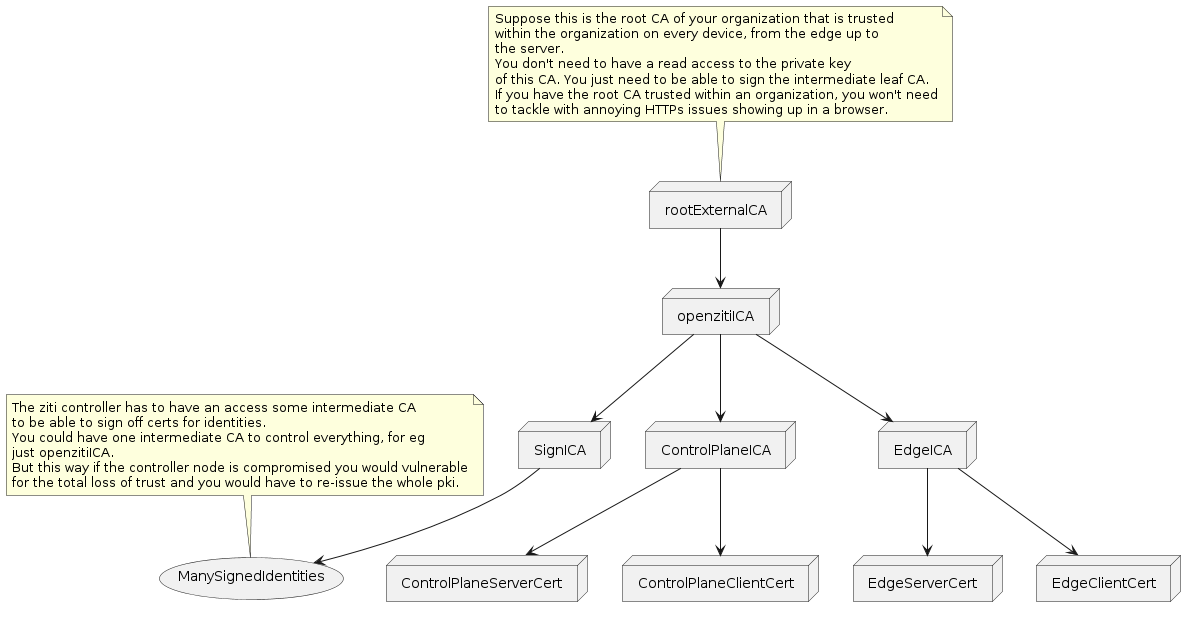
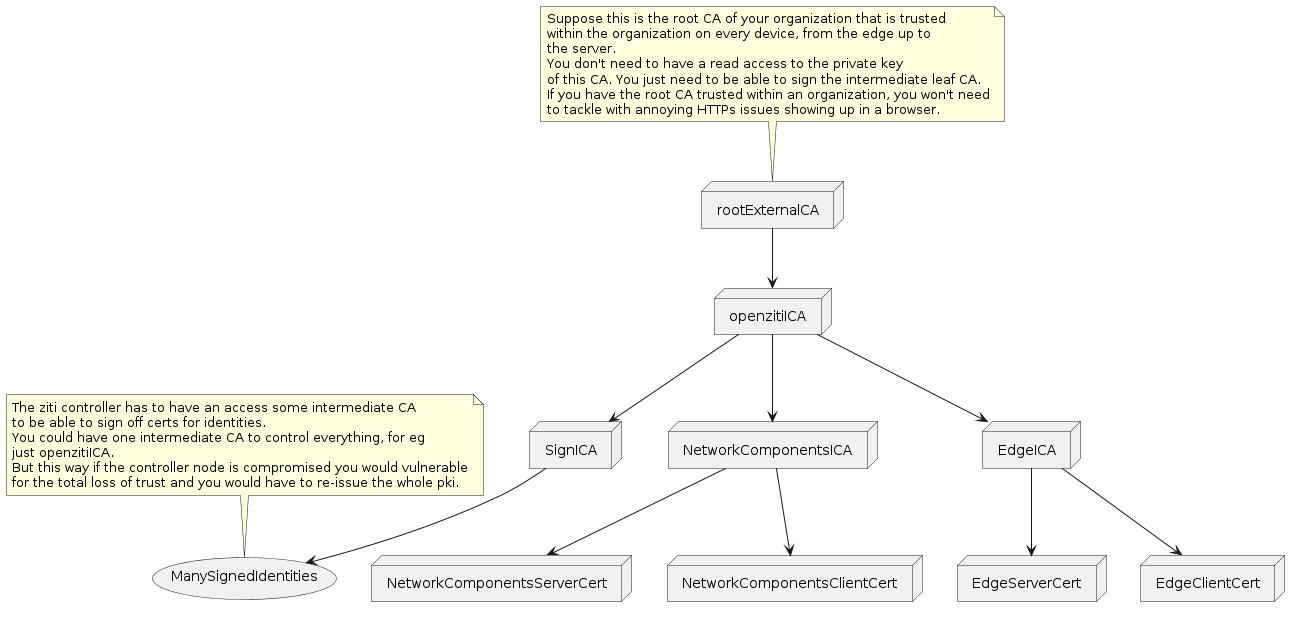
Create LICENSE

diff --git a/BOOTSTRAP_PKI.md b/BOOTSTRAP_PKI.md
@@ -1,224 +1,223 @@
-1. Copy the root ca of the bayfut
-`cp ~/code/repos/bayfut_pki/pems/bayfut_root_ca.pem`
-or from the trust root, or from the github
-
-2.  
+1. Create a self-signed root CA
 ```
-cat > engine.conf <<EOF
-openssl_conf = openssl_init
- 
-[openssl_init]
-engines = engine_section
- 
-[engine_section]
-pkcs11 = pkcs11_section
- 
-[pkcs11_section]
-engine_id = pkcs11
-dynamic_path = /opt/homebrew/lib/engines-3/pkcs11.dylib
-MODULE_PATH = /opt/homebrew/lib/libykcs11.dylib
-default_algorithms = ALL
-
-EOF
+openssl req \
+    -new -x509 \
+    -days 3650 \
+    -keyout ./pki/root_ca.key \
+    -subj "/C=US/ST=ST=Los Angeles/O=MyBestOrg/CN=MyBestOrg" \
+    -out ./pki/root_ca.cert \
+    -config ./pki/extensions.conf \
+    -extensions v3_ca \
+    -nodes
 ```
-3. alias yubissl='OPENSSL_CONF=engine.conf openssl' (possibly into the .zshrc)
-
-4. Create an alias for yubissl
-`alias yubissl='OPENSSL_CONF=engine.conf openssl'`
-
-5. Create an intermediate CA for Openziti
+2. Create an intermediate CA for Openziti
 ```
-openssl genrsa -aes256 \
-    -out ./pems/openziti_ica.key.pem 2048
+openssl genrsa -out ./pki/cas/openziti_ica.key 2048
 
 openssl req -new -sha256 \
-    -key ./pems/openziti_ica.key.pem \
-    -subj "/C=RU/ST=Saint-Petersburg/O=Bayfut/CN=Bayfut/OU=Openziti ICA" \
-    -out ./pems/openziti_ica.pem.csr
+    -key ./pki/cas/openziti_ica.key \
+    -subj "/C=US/ST=Los Angeles/O=MyBestOrg/CN=MyBestOrg/OU=Openziti ICA" \
+    -out ./pki/cas/openziti_ica.csr
 
-yubissl x509 \
-    -req -in ./pems/openziti_ica.pem.csr \
-    -CA ./pems/bayfut_root_ca.pem \
-    -CAkeyform engine \
-    -engine pkcs11 \
-    -CAkey slot_0-id_1 \
+openssl x509 \
+    -req -in ./pki/cas/openziti_ica.csr \
+    -CA ./pki/root_ca.cert \
+    -CAkey ./pki/root_ca.key \
     -days 600 \
     -extensions v3_intermediate_ca \
-    -extfile extensions.conf \
-    -out "./pems/openziti_ica.pem"
+    -extfile ./pki/extensions.conf \
+    -out "./pki/cas/openziti_ica.cert"
 ```
 
-6. Create a control-plane intermediate CA
+3. Create a network components intermediate CA
 ```
-openssl genrsa -aes256 \
-    -out ./pems/openziti_controlplane_ica.key.pem 2048
+openssl genrsa \
+    -out ./pki/cas/openziti_network_components_ica.key 2048
 
 openssl req -new -sha256 \
-    -key ./pems/openziti_controlplane_ica.key.pem \
-    -subj "/C=RU/ST=Saint-Petersburg/O=Bayfut/CN=Bayfut/OU=Openziti ControlPlane ICA" \
-    -out ./pems/openziti_controlplane_ica.pem.csr
+    -key ./pki/cas/openziti_network_components_ica.key \
+    -subj "/C=US/ST=Los Angeles/O=MyBestOrg/CN=MyBestOrg/OU=Openziti Network Components ICA" \
+    -out ./pki/cas/openziti_network_components_ica.csr
 
 openssl x509 \
-    -req -in ./pems/openziti_controlplane_ica.pem.csr \
-    -CA ./pems/openziti_ica.pem \
-    -CAkey ./pems/openziti_ica.key.pem \
+    -req -in ./pki/cas/openziti_network_components_ica.csr \
+    -CA ./pki/cas/openziti_ica.cert \
+    -CAkey ./pki/cas/openziti_ica.key \
     -days 600 \
     -extensions v3_intermediate_ca_end_certs_only \
-    -extfile extensions.conf \
-    -out "./pems/openziti_controlplane_ica.pem"
+    -extfile ./pki/extensions.conf \
+    -out "./pki/cas/openziti_network_components_ica.cert"
 ```
 
-7. Create a edge intermediate CA
+4. Create an edge intermediate CA
 ```
-openssl genrsa -aes256 \
-    -out ./pems/openziti_edge_ica.key.pem 2048
+openssl genrsa \
+    -out ./pki/cas/openziti_edge_ica.key 2048
 
 openssl req -new -sha256 \
-    -key ./pems/openziti_edge_ica.key.pem \
-    -subj "/C=RU/ST=Saint-Petersburg/O=Bayfut/CN=Bayfut/OU=Openziti ControlPlane ICA" \
-    -out ./pems/openziti_edge_ica.pem.csr
+    -key ./pki/cas/openziti_edge_ica.key \
+    -subj "/C=US/ST=Los Angeles/O=MyBestOrg/CN=MyBestOrg/OU=Openziti Edge ICA" \
+    -out ./pki/cas/openziti_edge_ica.csr
 
 openssl x509 \
-    -req -in ./pems/openziti_edge_ica.pem.csr \
-    -CA ./pems/openziti_ica.pem \
-    -CAkey ./pems/openziti_ica.key.pem \
+    -req -in ./pki/cas/openziti_edge_ica.csr \
+    -CA ./pki/cas/openziti_ica.cert \
+    -CAkey ./pki/cas/openziti_ica.key \
     -days 600 \
     -extensions v3_intermediate_ca_end_certs_only \
-    -extfile extensions.conf \
-    -out "./pems/openziti_edge_ica.pem"
+    -extfile ./pki/extensions.conf \
+    -out "./pki/cas/openziti_edge_ica.cert"
 ```
-8. Create a sign(identities) intermediate CA
+5. Create a sign(identities) intermediate CA
 ```
-openssl genrsa -aes256 \
-    -out ./pems/openziti_sign_ica.key.pem 2048
-
-openssl rsa \
-    -in ./cas/openziti_sign_ica.key.pem \
-    -out ./cas/openziti_sign_ica.key.pem
+openssl genrsa \
+    -out ./pki/cas/openziti_sign_ica.key 2048
 
 openssl req -new -sha256 \
-    -key ./pems/openziti_sign_ica.key.pem \
-    -subj "/C=RU/ST=Saint-Petersburg/O=Bayfut/CN=Bayfut/OU=Openziti Sign ICA" \
-    -out ./pems/openziti_sign_ica.pem.csr
+    -key ./pki/cas/openziti_sign_ica.key \
+    -subj "/C=US/ST=Los Angeles/O=MyBestOrg/CN=MyBestOrg/OU=Openziti Sign ICA" \
+    -out ./pki/cas/openziti_sign_ica.csr
 
 openssl x509 \
-    -req -in ./pems/openziti_sign_ica.pem.csr \
-    -CA ./pems/openziti_ica.pem \
-    -CAkey ./pems/openziti_ica.key.pem \
+    -req -in ./pki/cas/openziti_sign_ica.csr \
+    -CA ./pki/cas/openziti_ica.cert \
+    -CAkey ./pki/cas/openziti_ica.key \
     -days 600 \
     -extensions v3_intermediate_ca_end_certs_only \
-    -extfile extensions.conf \
-    -out "./pems/openziti_sign_ica.pem"
+    -extfile ./pki/extensions.conf \
+    -out "./pki/cas/openziti_sign_ica.cert"
 ```
 
-9. Create a client, server certificates for controlplane
+6. Create a client, server certificates for network components
 ```
-openssl genrsa -aes256 \
-    -out ./certs/openziti_controlplane_certs.key.pem 2048
-
-openssl rsa \
-    -in ./certs/openziti_controlplane_certs.key.pem \
-    -out ./certs/openziti_controlplane_certs.key.pem
+openssl genrsa \
+    -out ./pki/end_certs/openziti_network_components_certs.key 2048
 
 openssl req -new -sha256 \
-    -key ./certs/openziti_controlplane_certs.key.pem \
-    -subj "/C=RU/ST=Saint-Petersburg/O=Bayfut/CN=Openziti ControlPlane Server Cert/OU=Openziti ControlPlane" \
-    -addext "subjectAltName = DNS:controller.openziti.macos,IP:127.0.0.1" \
-    -out ./certs/openziti_controlplane_server.pem.csr
+    -key ./pki/end_certs/openziti_network_components_certs.key \
+    -subj "/C=US/ST=Los Angeles/O=MyBestOrg/CN=Openziti Network Components Server Cert/OU=Openziti Network Components" \
+    -addext "subjectAltName = DNS:components.openziti.macos,IP:127.0.0.1" \
+    -out ./pki/end_certs/openziti_network_components_server.csr
 
 openssl req -new -sha256 \
-    -key ./certs/openziti_controlplane_certs.key.pem \
-    -subj "/C=RU/ST=Saint-Petersburg/O=Bayfut/CN=Openziti ControlPlane Client Cert/OU=Openziti ControlPlane" \
-    -addext "subjectAltName = DNS:controller.openziti.macos,IP:127.0.0.1" \
-    -out ./certs/openziti_controlplane_client.pem.csr
+    -key ./pki/end_certs/openziti_network_components_certs.key \
+    -subj "/C=US/ST=Los Angeles/O=MyBestOrg/CN=Openziti Network Components Client Cert/OU=Openziti Network Components" \
+    -addext "subjectAltName = DNS:components.openziti.macos,IP:127.0.0.1" \
+    -out ./pki/end_certs/openziti_network_components_client.csr
 
 openssl x509 \
-    -req -in ./certs/openziti_controlplane_server.pem.csr \
-    -CA ./cas/openziti_controlplane_ica.pem \
-    -CAkey ./cas/openziti_controlplane_ica.key.pem \
+    -req -in ./pki/end_certs/openziti_network_components_server.csr \
+    -CA ./pki/cas/openziti_network_components_ica.cert \
+    -CAkey ./pki/cas/openziti_network_components_ica.key \
     -days 600 \
     -extensions v3_end_cert \
-    -extfile extensions.conf \
+    -extfile ./pki/extensions.conf \
     -copy_extensions copyall \
-    -out "./certs/openziti_controlplane_server.pem"
+    -out "./pki/end_certs/openziti_network_components_server.cert"
 
 openssl x509 \
-    -req -in ./certs/openziti_controlplane_client.pem.csr \
-    -CA ./cas/openziti_controlplane_ica.pem \
-    -CAkey ./cas/openziti_controlplane_ica.key.pem \
+    -req -in ./pki/end_certs/openziti_network_components_client.csr \
+    -CA ./pki/cas/openziti_network_components_ica.cert \
+    -CAkey ./pki/cas/openziti_network_components_ica.key \
     -days 600 \
     -extensions v3_end_cert \
-    -extfile extensions.conf \
+    -extfile ./pki/extensions.conf \
     -copy_extensions copyall \
-    -out "./certs/openziti_controlplane_client.pem"
+    -out "./pki/end_certs/openziti_network_components_client.cert"
 ```
 
-10. Create a client, server certificates for edge
+7. Create a client, server certificates for edge
 ```
-openssl genrsa -aes256 \
-    -out ./certs/openziti_edge_certs.key.pem 2048
-
-openssl rsa \
-    -in ./certs/openziti_edge_certs.key.pem \
-    -out ./certs/openziti_edge_certs.key.pem
+openssl genrsa \
+    -out ./pki/end_certs/openziti_edge_certs.key 2048
 
 openssl req -new -sha256 \
-    -key ./certs/openziti_edge_certs.key.pem \
-    -subj "/C=RU/ST=Saint-Petersburg/O=Bayfut/CN=Openziti ControlPlane Server Cert/OU=Openziti ControlPlane" \
-    -addext "subjectAltName = DNS:router.openziti.macos,IP:127.0.0.1" \
-    -out ./certs/openziti_edge_server.pem.csr
+    -key ./pki/end_certs/openziti_edge_certs.key \
+    -subj "/C=US/ST=Los Angeles/O=MyBestOrg/CN=Openziti Edge Server Cert/OU=Openziti Edge" \
+    -addext "subjectAltName = DNS:edge.openziti.localdomain,IP:127.0.0.2" \
+    -out ./pki/end_certs/openziti_edge_server.csr
 
 openssl req -new -sha256 \
-    -key ./certs/openziti_edge_certs.key.pem \
-    -subj "/C=RU/ST=Saint-Petersburg/O=Bayfut/CN=Openziti ControlPlane Client Cert/OU=Openziti ControlPlane" \
-    -addext "subjectAltName = DNS:router.openziti.macos,IP:127.0.0.1" \
-    -out ./certs/openziti_edge_client.pem.csr
+    -key ./pki/end_certs/openziti_edge_certs.key \
+    -subj "/C=US/ST=Los Angeles/O=MyBestOrg/CN=Openziti Edge Client Cert/OU=Openziti Edge" \
+    -addext "subjectAltName = DNS:edge.openziti.localdomain,IP:127.0.0.2" \
+    -out ./pki/end_certs/openziti_edge_client.csr
 
 openssl x509 \
-    -req -in ./certs/openziti_edge_server.pem.csr \
-    -CA ./cas/openziti_edge_ica.pem \
-    -CAkey ./cas/openziti_edge_ica.key.pem \
+    -req -in ./pki/end_certs/openziti_edge_server.csr \
+    -CA ./pki/cas/openziti_edge_ica.cert \
+    -CAkey ./pki/cas/openziti_edge_ica.key \
     -days 600 \
     -extensions v3_end_cert \
-    -extfile extensions.conf \
+    -extfile ./pki/extensions.conf \
     -copy_extensions copyall \
-    -out "./certs/openziti_edge_server.pem"
+    -out "./pki/end_certs/openziti_edge_server.cert"
 
 openssl x509 \
-    -req -in ./certs/openziti_edge_client.pem.csr \
-    -CA ./cas/openziti_edge_ica.pem \
-    -CAkey ./cas/openziti_edge_ica.key.pem \
+    -req -in ./pki/end_certs/openziti_edge_client.csr \
+    -CA ./pki/cas/openziti_edge_ica.cert \
+    -CAkey ./pki/cas/openziti_edge_ica.key \
     -days 600 \
     -extensions v3_end_cert \
-    -extfile extensions.conf \
+    -extfile ./pki/extensions.conf \
     -copy_extensions copyall \
-    -out "./certs/openziti_edge_client.pem"
+    -out "./pki/end_certs/openziti_edge_client.cert"
 ```
 
 
-11. Create a chain of CAs for controlplane and edge in PEM container
+8. Create a chain of CAs for network components and edge in PEM container
 ```
-cat ./bayfut_root_ca.pem ./cas/openziti_ica.pem > ./cas/openziti_controlplane_cas.pem
-cp ./cas/openziti_controlplane_cas.pem ./cas/openziti_edge_cas.pem
-```
-
-12. Create a chain of certificates for server of controlplane
-```
-cat ./certs/openziti_controlplane_server.pem ./cas/openziti_controlplane_ica.pem ./cas/openziti_ica.pem ./bayfut_root_ca.pem > ./certs/openziti_controlplane-server.chain.pem
+rm ./pki/cas/openziti_network_components_cas.pem ./pki/cas/openziti_edge_cas.pem
+cat ./pki/root_ca.cert ./pki/cas/openziti_ica.cert > ./pki/cas/openziti_network_components_cas.pem
+cp ./pki/cas/openziti_network_components_cas.pem ./pki/cas/openziti_edge_cas.pem
 ```
 
-13. Create a chain of certificates for server of edge
+9. Create a chain of certificates for server of network components
 ```
-cat ./certs/openziti_edge_server.pem ./cas/openziti_edge_ica.pem ./cas/openziti_ica.pem ./bayfut_root_ca.pem > ./certs/openziti_edge-server.chain.pem
+rm ./pki/end_certs/openziti_network_components-server.chain.pem
+cat ./pki/end_certs/openziti_network_components_server.cert \
+    ./pki/cas/openziti_network_components_ica.cert \
+    ./pki/cas/openziti_ica.cert \
+    ./pki/root_ca.cert > ./pki/end_certs/openziti_network_components-server.chain.pem
 ```
 
-14. Create a chain of certificates for sign(identities) ica
+10. Create a chain of certificates for the server of edge
 ```
-cat ./cas/openziti_sign_ica.pem ./cas/openziti_ica.pem ./bayfut_root_ca.pem > ./cas/openziti_sign_ica.chain.pem
+rm ./pki/end_certs/openziti_edge-server.chain.pem
+cat ./pki/end_certs/openziti_edge_server.cert \
+    ./pki/cas/openziti_edge_ica.cert \
+    ./pki/cas/openziti_ica.cert \
+    ./pki/root_ca.cert > ./pki/end_certs/openziti_edge-server.chain.pem
 ```
 
+11. Create a chain of certificates for sign(identities) intermediate CA
+```
+rm ./pki/cas/openziti_sign_ica.chain.pem
+cat ./pki/cas/openziti_sign_ica.cert \
+    ./pki/cas/openziti_ica.cert \
+    ./pki/root_ca.cert > ./pki/cas/openziti_sign_ica.chain.pem
+```
 
-15. Init an edge
+12. Init an edge
 ```
 ziti controller edge init controller_config.yaml -u "admin" -p "admin"
 ```
+
+13. Run the controller
+```
+ziti controller run controller_config.yaml
+```
+
+14. Login into the controller
+```
+ziti edge login 127.0.0.1:1280 -u "admin" -p "admin"
+```
+
+15. Enroll the router
+```
+ziti edge delete edge-router test-edge-router
+ziti edge create edge-router test-edge-router -o test-edge-router.jwt -t -a public
+ziti router enroll test-edge-router_config.yaml --jwt test-edge-router.jwt
+```
+
+16. Run the router

diff --git a/README.md b/README.md
@@ -23,7 +23,7 @@ By having these assumptions and this whole backstory I started my journey.
 
 I have made this PKI by thoroughly looking through this[4] forum and two videos[5][6] as well as the from-scratch.sh[7] and this ziti-cli-functions[8] script from the quickstart.
 
-From this point refer to CREATE_PKI.md
+From this point refer to BOOTSTRAP_PKI.md
 
 [1] https://openziti.discourse.group/t/general-architecture-questions/2210
 
